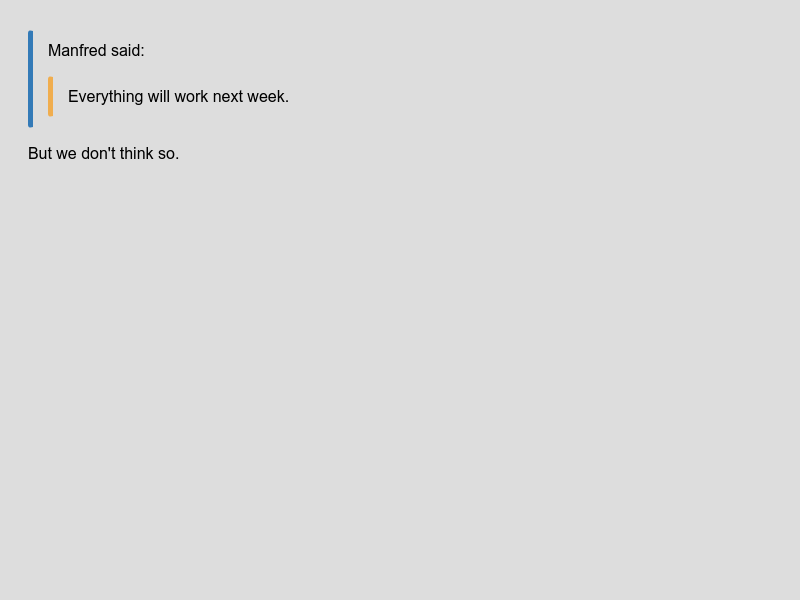
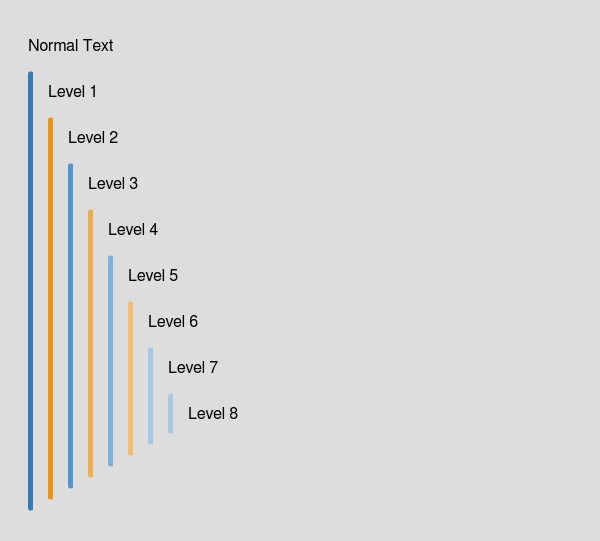
More examples blockquote.

Changed region(s): [[0.03, 0.0591, 0.36, 0.9464], [0.33, 0.7394, 0.39, 0.7985], [0.15, 0.3253, 0.24, 0.3549]]

diff --git a/var/src/template/report/default.css b/var/src/template/report/default.css
@@ -1,1 +1,1 @@
-div#page{border:1px solid #aaa;-webkit-box-shadow:0 8px 16px 0 rgba(0,0,0,0.4),0 12px 40px 0 rgba(0,0,0,0.4);box-shadow:0 8px 16px 0 rgba(0,0,0,0.4),0 12px 40px 0 rgba(0,0,0,0.4);max-width:800px;display:inline-block;background:#fff;padding:17px;overflow:auto;}div#page > h1{margin-top:0}html{background:#ddd;padding:20px}body{font-family:"Helvetica Neue",Helvetica,"Segoe UI",Arial,freesans,sans-serif,"Apple Color Emoji","Segoe UI Emoji","Segoe UI Symbol";font-size:16px;line-height:1.2;-ms-word-break:break-all;word-break:break-all;word-break:break-word;-webkit-hyphens:auto;-moz-hyphens:auto;-ms-hyphens:auto;hyphens:auto;-webkit-hyphenate-before:2;-webkit-hyphenate-after:3;hyphenate-lines:3;word-wrap:break-word}h1,h2,h3,h4,h5,h6{font-weight:bold;}h1:before,h2:before,h3:before,h4:before,h5:before,h6:before{display:block;content:" ";margin-top:-66px;height:66px;visibility:hidden}h1,h2,h3{clear:both}h1{border-bottom:3px solid #222;padding-bottom:5px}h2{border-bottom:2px dotted #222;padding-bottom:3px}h3{border-bottom:2px dotted #aaa;padding-bottom:2px}h4{border-bottom:1px dotted #aaa}a{color:#00008b}dt{font-weight:bold;margin-top:8px}dd{margin-left:20px}svg{max-width:100%}img{max-width:100%;vertical-align:middle}.emoji{height:1em}abbr,acronym{border-bottom:dotted 1px}blockquote{border:1px solid #ddd;border-radius:3px;border-left:5px solid #337ab7;padding:5px 15px;margin:10px 0;}blockquote :first-child{margin-top:5px}blockquote :last-child{margin-bottom:5px}blockquote blockquote{margin-right:-16px;border-left-color:#f0ad4e;}blockquote blockquote blockquote{border-left-color:#337ab7;}blockquote blockquote blockquote blockquote{border-left-color:#f0ad4e}blockquote ul li p{margin-bottom:0}table{border-collapse:collapse;border-spacing:0;display:block;width:100%;overflow:auto;word-break:keep-all;margin-bottom:10px;}table th,table td{padding:6px 13px;border:1px solid #ddd}table th{background-color:rgba(0,0,0,0.04);font-weight:bold;border-bottom:3px solid #999}table tr{background-color:#fff;border-top:1px solid #ccc;}table tr:nth-child(2n){background-color:rgba(0,0,0,0.04)}a code{color:#337ab7}code,tt{background-color:#fafafa;border-radius:4px;font-size:85%;margin:0;padding:.2em 0}pre{background-color:#fafafa;border-radius:10px;border:1px solid #a4a4a4;font-size:85%;margin:20px;padding:10px;}pre code,pre tt{background:none}pre.language{counter-reset:line;padding-top:0;padding-bottom:0;overflow-x:hidden;}pre.language code,pre.language tt{display:block;position:relative;float:left;width:100%;border-left:45px solid #ddd;margin-left:-10px;padding-left:5px;}pre.language code:nth-child(2n),pre.language tt:nth-child(2n){border-left:45px solid #c7c7c7;background-color:#ededed}pre.language code:before,pre.language tt:before{counter-increment:line;content:counter(line);min-width:35px;float:left;text-align:right;padding-right:5px;color:#808080;-webkit-touch-callout:none;-webkit-user-select:none;-moz-user-select:none;-ms-user-select:none;user-select:none;-webkit-user-select:none;margin-left:-45px}pre.language code:first-of-type,pre.language tt:first-of-type{padding-top:10px}pre.language code:last-child,pre.language tt:last-child{padding-bottom:10px}pre.language header{display:none}ul.table-of-contents{border:2px solid #ddd;border-radius:10px;margin-top:0;padding:10px 10px 10px 25px;background:#fafafa;font-size:90%;float:right;}ul.table-of-contents header{font-weight:bold;font-size:120%;display:block;background:#ddd;margin:-10px -10px 4px -25px;border-top-left-radius:10px;border-top-right-radius:10px;padding:3px 10px}ul.table-of-contents ul{padding-left:15px}ul.table-of-contents a{text-decoration:none}.toplink{float:right;color:#222}.tabs{padding:0;margin-bottom:10px;}.tabs:after{content:'';display:table;clear:both}.tabs input.tab,.tabs input.tabs-size{display:none}.tabs input.tab + label{position:relative;z-index:1;display:block;float:left;cursor:pointer;padding:5px 10px;margin-bottom:-1px;border:1px solid #222;border-top-left-radius:10px;border-top-right-radius:10px;background:#ddd;-webkit-transition:all 0.5s;-moz-transition:all 0.5s;-o-transition:all 0.5s;-ms-transition:all 0.5s;transition:all 0.5s;opacity:.5;-ms-filter:"progid:DXImageTransform.Microsoft.Alpha(Opacity=50)";filter:alpha(opacity=50);font-weight:bold;font-size:80%}.tabs input.tab + label:hover,.tabs input.tab:hover + label{opacity:1;-ms-filter:none;filter:none}.tabs .tab-content{display:none;position:relative;clear:both;border:1px solid #222;border-top-right-radius:10px;border-bottom-left-radius:10px;border-bottom-right-radius:10px;padding:0 15px;-webkit-transition:all 0.5s;-moz-transition:all 0.5s;-o-transition:all 0.5s;-ms-transition:all 0.5s;transition:all 0.5s;overflow:auto;max-height:300px;}.tabs .tab-content > p{margin-top:10px}.tabs input.tab:checked + label{cursor:default;border-bottom:1px solid #fff;opacity:1;-ms-filter:none;filter:none}.tabs .tab1:checked ~ .tab-content1,.tabs .tab2:checked ~ .tab-content2,.tabs .tab3:checked ~ .tab-content3,.tabs .tab4:checked ~ .tab-content4,.tabs .tab5:checked ~ .tab-content5,.tabs .tab6:checked ~ .tab-content6,.tabs .tab7:checked ~ .tab-content7,.tabs .tab8:checked ~ .tab-content8{display:block}.tabs .tabs-size + label{cursor:pointer;float:right;padding:5px 5px 0 5px;font-size:80%}.tabs .tabs-size-min:checked + label,.tabs .tabs-size-scroll:checked + label,.tabs .tabs-size-max:checked + label{display:none}.tabs .tabs-size-min:checked ~ .tab-content{height:0}.tabs .tabs-size-max:checked ~ .tab-content{max-height:none}@media print{input.tab + label{opacity:1 !important;-ms-filter:none !important;filter:none !important}.tabs-size-min + label,.tabs-size-scroll + label,.tabs-size-max + label{display:none}.tab-content{display:block !important;max-height:none !important;height:auto !important}}.tabs input.tab + label.detail{background-image:-webkit-linear-gradient(top, #fafafa 0%, #999 100%);background-image:-moz-linear-gradient(top, #fafafa 0%, #999 100%);background-image:-o-linear-gradient(top, #fafafa 0%, #999 100%);background-image:-ms-linear-gradient(top, #fafafa 0%, #999 100%);background-image:linear-gradient(to bottom, #fafafa 0%, #999 100%);border-bottom-color:#999}.tabs div.detail{background-image:-webkit-linear-gradient(top, #fafafa 0%, #999 100%);background-image:-moz-linear-gradient(top, #fafafa 0%, #999 100%);background-image:-o-linear-gradient(top, #fafafa 0%, #999 100%);background-image:-ms-linear-gradient(top, #fafafa 0%, #999 100%);background-image:linear-gradient(to bottom, #fafafa 0%, #999 100%)}.tabs input.tab + label.info{background-image:-webkit-linear-gradient(top, #cfc 0%, #9f9 100%);background-image:-moz-linear-gradient(top, #cfc 0%, #9f9 100%);background-image:-o-linear-gradient(top, #cfc 0%, #9f9 100%);background-image:-ms-linear-gradient(top, #cfc 0%, #9f9 100%);background-image:linear-gradient(to bottom, #cfc 0%, #9f9 100%);border-bottom-color:#9f9}.tabs div.info{background-image:-webkit-linear-gradient(top, #cfc 0%, #9f9 100%);background-image:-moz-linear-gradient(top, #cfc 0%, #9f9 100%);background-image:-o-linear-gradient(top, #cfc 0%, #9f9 100%);background-image:-ms-linear-gradient(top, #cfc 0%, #9f9 100%);background-image:linear-gradient(to bottom, #cfc 0%, #9f9 100%)}.tabs input.tab + label.warning{background-image:-webkit-linear-gradient(top, #fde6a5 0%, #fbcd4a 100%);background-image:-moz-linear-gradient(top, #fde6a5 0%, #fbcd4a 100%);background-image:-o-linear-gradient(top, #fde6a5 0%, #fbcd4a 100%);background-image:-ms-linear-gradient(top, #fde6a5 0%, #fbcd4a 100%);background-image:linear-gradient(to bottom, #fde6a5 0%, #fbcd4a 100%);border-bottom-color:#fbcd4a}.tabs div.warning{background-image:-webkit-linear-gradient(top, #fde6a5 0%, #fbcd4a 100%);background-image:-moz-linear-gradient(top, #fde6a5 0%, #fbcd4a 100%);background-image:-o-linear-gradient(top, #fde6a5 0%, #fbcd4a 100%);background-image:-ms-linear-gradient(top, #fde6a5 0%, #fbcd4a 100%);background-image:linear-gradient(to bottom, #fde6a5 0%, #fbcd4a 100%)}.tabs input.tab + label.alert{background-image:-webkit-linear-gradient(top, #f7c4b3 0%, #e86 100%);background-image:-moz-linear-gradient(top, #f7c4b3 0%, #e86 100%);background-image:-o-linear-gradient(top, #f7c4b3 0%, #e86 100%);background-image:-ms-linear-gradient(top, #f7c4b3 0%, #e86 100%);background-image:linear-gradient(to bottom, #f7c4b3 0%, #e86 100%);border-bottom-color:#e86}.tabs div.alert{background-image:-webkit-linear-gradient(top, #f7c4b3 0%, #e86 100%);background-image:-moz-linear-gradient(top, #f7c4b3 0%, #e86 100%);background-image:-o-linear-gradient(top, #f7c4b3 0%, #e86 100%);background-image:-ms-linear-gradient(top, #f7c4b3 0%, #e86 100%);background-image:linear-gradient(to bottom, #f7c4b3 0%, #e86 100%)}.tabs .tab-content.pre{padding:0;}.tabs .tab-content.pre pre,.tabs .tab-content.pre table{margin:0;border:0;border-radius:0}.tabs input.tab + label.coffeescript,.tabs input.tab + label.javascript,.tabs input.tab + label.ruby,.tabs input.tab + label.python,.tabs input.tab + label.perl,.tabs input.tab + label.cc,.tabs input.tab + label.cpp,.tabs input.tab + label.cs,.tabs input.tab + label.java,.tabs input.tab + label.groovy,.tabs input.tab + label.php,.tabs input.tab + label.bash,.tabs input.tab + label.sql,.tabs input.tab + label.makefile{background-image:-webkit-linear-gradient(top, #f8d6a7 0%, #f0ad4e 100%);background-image:-moz-linear-gradient(top, #f8d6a7 0%, #f0ad4e 100%);background-image:-o-linear-gradient(top, #f8d6a7 0%, #f0ad4e 100%);background-image:-ms-linear-gradient(top, #f8d6a7 0%, #f0ad4e 100%);background-image:linear-gradient(to bottom, #f8d6a7 0%, #f0ad4e 100%);border-bottom-color:#f0ad4e}.tabs input.tab + label.json,.tabs input.tab + label.cson,.tabs input.tab + label.yaml{background-image:-webkit-linear-gradient(top, #93bde1 0%, #337ab7 100%);background-image:-moz-linear-gradient(top, #93bde1 0%, #337ab7 100%);background-image:-o-linear-gradient(top, #93bde1 0%, #337ab7 100%);background-image:-ms-linear-gradient(top, #93bde1 0%, #337ab7 100%);background-image:linear-gradient(to bottom, #93bde1 0%, #337ab7 100%);border-bottom-color:#337ab7}.tabs input.tab + label.jsp,.tabs input.tab + label.handlebars,.tabs input.tab + label.css,.tabs input.tab + label.stylus,.tabs input.tab + label.scss,.tabs input.tab + label.less{background-image:-webkit-linear-gradient(top, #75e5e2 0%, #1d9a96 100%);background-image:-moz-linear-gradient(top, #75e5e2 0%, #1d9a96 100%);background-image:-o-linear-gradient(top, #75e5e2 0%, #1d9a96 100%);background-image:-ms-linear-gradient(top, #75e5e2 0%, #1d9a96 100%);background-image:linear-gradient(to bottom, #75e5e2 0%, #1d9a96 100%);border-bottom-color:#1d9a96}.tabs input.tab + label.markdown,.tabs input.tab + label.html{background-image:-webkit-linear-gradient(top, #9bd09b 0%, #459245 100%);background-image:-moz-linear-gradient(top, #9bd09b 0%, #459245 100%);background-image:-o-linear-gradient(top, #9bd09b 0%, #459245 100%);background-image:-ms-linear-gradient(top, #9bd09b 0%, #459245 100%);background-image:linear-gradient(to bottom, #9bd09b 0%, #459245 100%);border-bottom-color:#459245}.text-red{color:#d13f19}.text-green{color:#2ecc40}.text-yellow{color:#ffdc00}.text-blue{color:#0074d9}.text-magenta{color:#f0f}.text-cyan{color:#0ff}.text-gray{color:#aaa}.bg-white{background-color:#fff}.center{text-align:center}.left{float:left}.right{float:right}.spacing{padding:10px}.hidden{display:none}
+div#page{border:1px solid #aaa;-webkit-box-shadow:0 8px 16px 0 rgba(0,0,0,0.4),0 12px 40px 0 rgba(0,0,0,0.4);box-shadow:0 8px 16px 0 rgba(0,0,0,0.4),0 12px 40px 0 rgba(0,0,0,0.4);max-width:800px;display:inline-block;background:#fff;padding:17px;overflow:auto;}div#page > h1{margin-top:0}html{background:#ddd;padding:20px}body{font-family:"Helvetica Neue",Helvetica,"Segoe UI",Arial,freesans,sans-serif,"Apple Color Emoji","Segoe UI Emoji","Segoe UI Symbol";font-size:16px;line-height:1.2;-ms-word-break:break-all;word-break:break-all;word-break:break-word;-webkit-hyphens:auto;-moz-hyphens:auto;-ms-hyphens:auto;hyphens:auto;-webkit-hyphenate-before:2;-webkit-hyphenate-after:3;hyphenate-lines:3;word-wrap:break-word}h1,h2,h3,h4,h5,h6{font-weight:bold;}h1:before,h2:before,h3:before,h4:before,h5:before,h6:before{display:block;content:" ";margin-top:-66px;height:66px;visibility:hidden}h1,h2,h3{clear:both}h1{border-bottom:3px solid #222;padding-bottom:5px}h2{border-bottom:2px dotted #222;padding-bottom:3px}h3{border-bottom:2px dotted #aaa;padding-bottom:2px}h4{border-bottom:1px dotted #aaa}a{color:#00008b}dt{font-weight:bold;margin-top:8px}dd{margin-left:20px}svg{max-width:100%}img{max-width:100%;vertical-align:middle}.emoji{height:1em}abbr,acronym{border-bottom:dotted 1px}blockquote{border:1px solid #ddd;border-radius:3px;border-left:5px solid #337ab7;padding:5px 15px;margin:10px 0;}blockquote :first-child{margin-top:5px}blockquote :last-child{margin-bottom:5px}blockquote blockquote{margin-right:-16px;border-left-color:#eb9214;}blockquote blockquote blockquote{border-left-color:#5295cf;}blockquote blockquote blockquote blockquote{border-left-color:#f0ad4e;}blockquote blockquote blockquote blockquote blockquote{border-left-color:#7db0db;}blockquote blockquote blockquote blockquote blockquote blockquote{border-left-color:#f3bd71;}blockquote blockquote blockquote blockquote blockquote blockquote blockquote{border-left-color:#a9cae7}blockquote ul li p{margin-bottom:0}table{border-collapse:collapse;border-spacing:0;display:block;width:100%;overflow:auto;word-break:keep-all;margin-bottom:10px;}table th,table td{padding:6px 13px;border:1px solid #ddd}table th{background-color:rgba(0,0,0,0.04);font-weight:bold;border-bottom:3px solid #999}table tr{background-color:#fff;border-top:1px solid #ccc;}table tr:nth-child(2n){background-color:rgba(0,0,0,0.04)}a code{color:#337ab7}code,tt{background-color:#fafafa;border-radius:4px;font-size:85%;margin:0;padding:.2em 0}pre{background-color:#fafafa;border-radius:10px;border:1px solid #a4a4a4;font-size:85%;margin:20px;padding:10px;}pre code,pre tt{background:none}pre.language{counter-reset:line;padding-top:0;padding-bottom:0;overflow-x:hidden;}pre.language code,pre.language tt{display:block;position:relative;float:left;width:100%;border-left:45px solid #ddd;margin-left:-10px;padding-left:5px;}pre.language code:nth-child(2n),pre.language tt:nth-child(2n){border-left:45px solid #c7c7c7;background-color:#ededed}pre.language code:before,pre.language tt:before{counter-increment:line;content:counter(line);min-width:35px;float:left;text-align:right;padding-right:5px;color:#808080;-webkit-touch-callout:none;-webkit-user-select:none;-moz-user-select:none;-ms-user-select:none;user-select:none;-webkit-user-select:none;margin-left:-45px}pre.language code:first-of-type,pre.language tt:first-of-type{padding-top:10px}pre.language code:last-child,pre.language tt:last-child{padding-bottom:10px}pre.language header{display:none}ul.table-of-contents{border:2px solid #ddd;border-radius:10px;margin-top:0;padding:10px 10px 10px 25px;background:#fafafa;font-size:90%;float:right;}ul.table-of-contents header{font-weight:bold;font-size:120%;display:block;background:#ddd;margin:-10px -10px 4px -25px;border-top-left-radius:10px;border-top-right-radius:10px;padding:3px 10px}ul.table-of-contents ul{padding-left:15px}ul.table-of-contents a{text-decoration:none}.toplink{float:right;color:#222}.tabs{padding:0;margin-bottom:10px;}.tabs:after{content:'';display:table;clear:both}.tabs input.tab,.tabs input.tabs-size{display:none}.tabs input.tab + label{position:relative;z-index:1;display:block;float:left;cursor:pointer;padding:5px 10px;margin-bottom:-1px;border:1px solid #222;border-top-left-radius:10px;border-top-right-radius:10px;background:#ddd;-webkit-transition:all 0.5s;-moz-transition:all 0.5s;-o-transition:all 0.5s;-ms-transition:all 0.5s;transition:all 0.5s;opacity:.5;-ms-filter:"progid:DXImageTransform.Microsoft.Alpha(Opacity=50)";filter:alpha(opacity=50);font-weight:bold;font-size:80%}.tabs input.tab + label:hover,.tabs input.tab:hover + label{opacity:1;-ms-filter:none;filter:none}.tabs .tab-content{display:none;position:relative;clear:both;border:1px solid #222;border-top-right-radius:10px;border-bottom-left-radius:10px;border-bottom-right-radius:10px;padding:0 15px;-webkit-transition:all 0.5s;-moz-transition:all 0.5s;-o-transition:all 0.5s;-ms-transition:all 0.5s;transition:all 0.5s;overflow:auto;max-height:300px;}.tabs .tab-content > p{margin-top:10px}.tabs input.tab:checked + label{cursor:default;border-bottom:1px solid #fff;opacity:1;-ms-filter:none;filter:none}.tabs .tab1:checked ~ .tab-content1,.tabs .tab2:checked ~ .tab-content2,.tabs .tab3:checked ~ .tab-content3,.tabs .tab4:checked ~ .tab-content4,.tabs .tab5:checked ~ .tab-content5,.tabs .tab6:checked ~ .tab-content6,.tabs .tab7:checked ~ .tab-content7,.tabs .tab8:checked ~ .tab-content8{display:block}.tabs .tabs-size + label{cursor:pointer;float:right;padding:5px 5px 0 5px;font-size:80%}.tabs .tabs-size-min:checked + label,.tabs .tabs-size-scroll:checked + label,.tabs .tabs-size-max:checked + label{display:none}.tabs .tabs-size-min:checked ~ .tab-content{height:0}.tabs .tabs-size-max:checked ~ .tab-content{max-height:none}@media print{input.tab + label{opacity:1 !important;-ms-filter:none !important;filter:none !important}.tabs-size-min + label,.tabs-size-scroll + label,.tabs-size-max + label{display:none}.tab-content{display:block !important;max-height:none !important;height:auto !important}}.tabs input.tab + label.detail{background-image:-webkit-linear-gradient(top, #fafafa 0%, #999 100%);background-image:-moz-linear-gradient(top, #fafafa 0%, #999 100%);background-image:-o-linear-gradient(top, #fafafa 0%, #999 100%);background-image:-ms-linear-gradient(top, #fafafa 0%, #999 100%);background-image:linear-gradient(to bottom, #fafafa 0%, #999 100%);border-bottom-color:#999}.tabs div.detail{background-image:-webkit-linear-gradient(top, #fafafa 0%, #999 100%);background-image:-moz-linear-gradient(top, #fafafa 0%, #999 100%);background-image:-o-linear-gradient(top, #fafafa 0%, #999 100%);background-image:-ms-linear-gradient(top, #fafafa 0%, #999 100%);background-image:linear-gradient(to bottom, #fafafa 0%, #999 100%)}.tabs input.tab + label.info{background-image:-webkit-linear-gradient(top, #cfc 0%, #9f9 100%);background-image:-moz-linear-gradient(top, #cfc 0%, #9f9 100%);background-image:-o-linear-gradient(top, #cfc 0%, #9f9 100%);background-image:-ms-linear-gradient(top, #cfc 0%, #9f9 100%);background-image:linear-gradient(to bottom, #cfc 0%, #9f9 100%);border-bottom-color:#9f9}.tabs div.info{background-image:-webkit-linear-gradient(top, #cfc 0%, #9f9 100%);background-image:-moz-linear-gradient(top, #cfc 0%, #9f9 100%);background-image:-o-linear-gradient(top, #cfc 0%, #9f9 100%);background-image:-ms-linear-gradient(top, #cfc 0%, #9f9 100%);background-image:linear-gradient(to bottom, #cfc 0%, #9f9 100%)}.tabs input.tab + label.warning{background-image:-webkit-linear-gradient(top, #fde6a5 0%, #fbcd4a 100%);background-image:-moz-linear-gradient(top, #fde6a5 0%, #fbcd4a 100%);background-image:-o-linear-gradient(top, #fde6a5 0%, #fbcd4a 100%);background-image:-ms-linear-gradient(top, #fde6a5 0%, #fbcd4a 100%);background-image:linear-gradient(to bottom, #fde6a5 0%, #fbcd4a 100%);border-bottom-color:#fbcd4a}.tabs div.warning{background-image:-webkit-linear-gradient(top, #fde6a5 0%, #fbcd4a 100%);background-image:-moz-linear-gradient(top, #fde6a5 0%, #fbcd4a 100%);background-image:-o-linear-gradient(top, #fde6a5 0%, #fbcd4a 100%);background-image:-ms-linear-gradient(top, #fde6a5 0%, #fbcd4a 100%);background-image:linear-gradient(to bottom, #fde6a5 0%, #fbcd4a 100%)}.tabs input.tab + label.alert{background-image:-webkit-linear-gradient(top, #f7c4b3 0%, #e86 100%);background-image:-moz-linear-gradient(top, #f7c4b3 0%, #e86 100%);background-image:-o-linear-gradient(top, #f7c4b3 0%, #e86 100%);background-image:-ms-linear-gradient(top, #f7c4b3 0%, #e86 100%);background-image:linear-gradient(to bottom, #f7c4b3 0%, #e86 100%);border-bottom-color:#e86}.tabs div.alert{background-image:-webkit-linear-gradient(top, #f7c4b3 0%, #e86 100%);background-image:-moz-linear-gradient(top, #f7c4b3 0%, #e86 100%);background-image:-o-linear-gradient(top, #f7c4b3 0%, #e86 100%);background-image:-ms-linear-gradient(top, #f7c4b3 0%, #e86 100%);background-image:linear-gradient(to bottom, #f7c4b3 0%, #e86 100%)}.tabs .tab-content.pre{padding:0;}.tabs .tab-content.pre pre,.tabs .tab-content.pre table{margin:0;border:0;border-radius:0}.tabs input.tab + label.coffeescript,.tabs input.tab + label.javascript,.tabs input.tab + label.ruby,.tabs input.tab + label.python,.tabs input.tab + label.perl,.tabs input.tab + label.cc,.tabs input.tab + label.cpp,.tabs input.tab + label.cs,.tabs input.tab + label.java,.tabs input.tab + label.groovy,.tabs input.tab + label.php,.tabs input.tab + label.bash,.tabs input.tab + label.sql,.tabs input.tab + label.makefile{background-image:-webkit-linear-gradient(top, #f8d6a7 0%, #f0ad4e 100%);background-image:-moz-linear-gradient(top, #f8d6a7 0%, #f0ad4e 100%);background-image:-o-linear-gradient(top, #f8d6a7 0%, #f0ad4e 100%);background-image:-ms-linear-gradient(top, #f8d6a7 0%, #f0ad4e 100%);background-image:linear-gradient(to bottom, #f8d6a7 0%, #f0ad4e 100%);border-bottom-color:#f0ad4e}.tabs input.tab + label.json,.tabs input.tab + label.cson,.tabs input.tab + label.yaml{background-image:-webkit-linear-gradient(top, #93bde1 0%, #337ab7 100%);background-image:-moz-linear-gradient(top, #93bde1 0%, #337ab7 100%);background-image:-o-linear-gradient(top, #93bde1 0%, #337ab7 100%);background-image:-ms-linear-gradient(top, #93bde1 0%, #337ab7 100%);background-image:linear-gradient(to bottom, #93bde1 0%, #337ab7 100%);border-bottom-color:#337ab7}.tabs input.tab + label.jsp,.tabs input.tab + label.handlebars,.tabs input.tab + label.css,.tabs input.tab + label.stylus,.tabs input.tab + label.scss,.tabs input.tab + label.less{background-image:-webkit-linear-gradient(top, #75e5e2 0%, #1d9a96 100%);background-image:-moz-linear-gradient(top, #75e5e2 0%, #1d9a96 100%);background-image:-o-linear-gradient(top, #75e5e2 0%, #1d9a96 100%);background-image:-ms-linear-gradient(top, #75e5e2 0%, #1d9a96 100%);background-image:linear-gradient(to bottom, #75e5e2 0%, #1d9a96 100%);border-bottom-color:#1d9a96}.tabs input.tab + label.markdown,.tabs input.tab + label.html{background-image:-webkit-linear-gradient(top, #9bd09b 0%, #459245 100%);background-image:-moz-linear-gradient(top, #9bd09b 0%, #459245 100%);background-image:-o-linear-gradient(top, #9bd09b 0%, #459245 100%);background-image:-ms-linear-gradient(top, #9bd09b 0%, #459245 100%);background-image:linear-gradient(to bottom, #9bd09b 0%, #459245 100%);border-bottom-color:#459245}.text-red{color:#d13f19}.text-green{color:#2ecc40}.text-yellow{color:#ffdc00}.text-blue{color:#0074d9}.text-magenta{color:#f0f}.text-cyan{color:#0ff}.text-gray{color:#aaa}.bg-white{background-color:#fff}.center{text-align:center}.left{float:left}.right{float:right}.spacing{padding:10px}.hidden{display:none}

diff --git a/src/examples/blockquote/multiple.tokens.js b/src/examples/blockquote/multiple.tokens.js
@@ -1,11 +1,18 @@
 TokenList {
   data: 
    [ { type: 'document', nesting: 1, level: 0 },
+     { type: 'paragraph', nesting: 1, level: 1, parent: [Object] },
+     { type: 'text',
+       nesting: 0,
+       content: 'Normal Text',
+       level: 2,
+       parent: [Object] },
+     { type: 'paragraph', nesting: -1, level: 1, parent: [Object] },
      { type: 'blockquote', nesting: 1, level: 1, parent: [Object] },
      { type: 'paragraph', nesting: 1, level: 2, parent: [Object] },
      { type: 'text',
        nesting: 0,
-       content: 'Manfred said:',
+       content: 'Level 1',
        level: 3,
        parent: [Object] },
      { type: 'paragraph', nesting: -1, level: 2, parent: [Object] },
@@ -13,23 +20,70 @@ TokenList {
      { type: 'paragraph', nesting: 1, level: 3, parent: [Object] },
      { type: 'text',
        nesting: 0,
-       content: 'Everything will work next week.',
+       content: 'Level 2',
        level: 4,
        parent: [Object] },
      { type: 'paragraph', nesting: -1, level: 3, parent: [Object] },
-     { type: 'blockquote', nesting: -1, level: 2, parent: [Object] },
-     { type: 'blockquote', nesting: -1, level: 1, parent: [Object] },
-     { type: 'paragraph', nesting: 1, level: 1, parent: [Object] },
+     { type: 'blockquote', nesting: 1, level: 3, parent: [Object] },
+     { type: 'paragraph', nesting: 1, level: 4, parent: [Object] },
      { type: 'text',
        nesting: 0,
-       content: 'But we don\'t think so.',
-       level: 2,
+       content: 'Level 3',
+       level: 5,
        parent: [Object] },
-     { type: 'paragraph', nesting: -1, level: 1, parent: [Object] },
+     { type: 'paragraph', nesting: -1, level: 4, parent: [Object] },
+     { type: 'blockquote', nesting: 1, level: 4, parent: [Object] },
+     { type: 'paragraph', nesting: 1, level: 5, parent: [Object] },
+     { type: 'text',
+       nesting: 0,
+       content: 'Level 4',
+       level: 6,
+       parent: [Object] },
+     { type: 'paragraph', nesting: -1, level: 5, parent: [Object] },
+     { type: 'blockquote', nesting: 1, level: 5, parent: [Object] },
+     { type: 'paragraph', nesting: 1, level: 6, parent: [Object] },
+     { type: 'text',
+       nesting: 0,
+       content: 'Level 5',
+       level: 7,
+       parent: [Object] },
+     { type: 'paragraph', nesting: -1, level: 6, parent: [Object] },
+     { type: 'blockquote', nesting: 1, level: 6, parent: [Object] },
+     { type: 'paragraph', nesting: 1, level: 7, parent: [Object] },
+     { type: 'text',
+       nesting: 0,
+       content: 'Level 6',
+       level: 8,
+       parent: [Object] },
+     { type: 'paragraph', nesting: -1, level: 7, parent: [Object] },
+     { type: 'blockquote', nesting: 1, level: 7, parent: [Object] },
+     { type: 'paragraph', nesting: 1, level: 8, parent: [Object] },
+     { type: 'text',
+       nesting: 0,
+       content: 'Level 7',
+       level: 9,
+       parent: [Object] },
+     { type: 'paragraph', nesting: -1, level: 8, parent: [Object] },
+     { type: 'blockquote', nesting: 1, level: 8, parent: [Object] },
+     { type: 'paragraph', nesting: 1, level: 9, parent: [Object] },
+     { type: 'text',
+       nesting: 0,
+       content: 'Level 8',
+       level: 10,
+       parent: [Object] },
+     { type: 'paragraph', nesting: -1, level: 9, parent: [Object] },
+     { type: 'blockquote', nesting: -1, level: 8, parent: [Object] },
+     { type: 'blockquote', nesting: -1, level: 7, parent: [Object] },
+     { type: 'blockquote', nesting: -1, level: 6, parent: [Object] },
+     { type: 'blockquote', nesting: -1, level: 5, parent: [Object] },
+     { type: 'blockquote', nesting: -1, level: 4, parent: [Object] },
+     { type: 'blockquote', nesting: -1, level: 3, parent: [Object] },
+     { type: 'blockquote', nesting: -1, level: 2, parent: [Object] },
+     { type: 'blockquote', nesting: -1, level: 1, parent: [Object] },
      { type: 'document', nesting: -1, level: 0 } ],
-  pos: 14,
+  pos: 44,
   token: 
-   { type: 'paragraph',
+   { type: 'blockquote',
      nesting: -1,
      level: 1,
      parent: { type: 'document', nesting: 1, level: 0 } } }

diff --git a/src/examples/blockquote/simple.tokens.js b/src/examples/blockquote/simple.tokens.js
@@ -1,0 +1,35 @@
+TokenList {
+  data: 
+   [ { type: 'document', nesting: 1, level: 0 },
+     { type: 'blockquote', nesting: 1, level: 1, parent: [Object] },
+     { type: 'paragraph', nesting: 1, level: 2, parent: [Object] },
+     { type: 'text',
+       nesting: 0,
+       content: 'Manfred said:',
+       level: 3,
+       parent: [Object] },
+     { type: 'paragraph', nesting: -1, level: 2, parent: [Object] },
+     { type: 'blockquote', nesting: 1, level: 2, parent: [Object] },
+     { type: 'paragraph', nesting: 1, level: 3, parent: [Object] },
+     { type: 'text',
+       nesting: 0,
+       content: 'Everything will work next week.',
+       level: 4,
+       parent: [Object] },
+     { type: 'paragraph', nesting: -1, level: 3, parent: [Object] },
+     { type: 'blockquote', nesting: -1, level: 2, parent: [Object] },
+     { type: 'blockquote', nesting: -1, level: 1, parent: [Object] },
+     { type: 'paragraph', nesting: 1, level: 1, parent: [Object] },
+     { type: 'text',
+       nesting: 0,
+       content: 'But we don\'t think so.',
+       level: 2,
+       parent: [Object] },
+     { type: 'paragraph', nesting: -1, level: 1, parent: [Object] },
+     { type: 'document', nesting: -1, level: 0 } ],
+  pos: 14,
+  token: 
+   { type: 'paragraph',
+     nesting: -1,
+     level: 1,
+     parent: { type: 'document', nesting: 1, level: 0 } } }

diff --git a/src/examples/blockquote/simple.html b/src/examples/blockquote/simple.html
@@ -6,22 +6,10 @@
 </head>
 
 <body><div id="page">
-<p>Normal Text</p>
-<blockquote><p>Level 1</p>
-<blockquote><p>Level 2</p>
-<blockquote><p>Level 3</p>
-<blockquote><p>Level 4</p>
-<blockquote><p>Level 5</p>
-<blockquote><p>Level 6</p>
-<blockquote><p>Level 7</p>
-<blockquote><p>Level 8</p>
+<blockquote><p>Manfred said:</p>
+<blockquote><p>Everything will work next week.</p>
 </blockquote>
 </blockquote>
-</blockquote>
-</blockquote>
-</blockquote>
-</blockquote>
-</blockquote>
-</blockquote>
+<p>But we don&#39;t think so.</p>
 </div></body>
 </html>

diff --git a/src/examples/blockquote/multiple.md b/src/examples/blockquote/multiple.md
@@ -1,5 +1,17 @@
-> Manfred said:
-> 
-> > Everything will work next week.
+Normal Text
 
-But we don't think so.
+> Level 1
+> 
+> > Level 2
+> > 
+> > > Level 3
+> > > 
+> > > > Level 4
+> > > > 
+> > > > > Level 5
+> > > > > 
+> > > > > > Level 6
+> > > > > > 
+> > > > > > > Level 7
+> > > > > > > 
+> > > > > > > > Level 8

diff --git a/src/examples/blockquote/multiple.source.md b/src/examples/blockquote/multiple.source.md
@@ -1,5 +1,9 @@
-> Manfred said:
->
-> > Everything will work next week.
->
-But we don't think so.
+Normal Text
+> Level 1
+> > Level 2
+> > > Level 3
+> > > > Level 4
+> > > > > Level 5
+> > > > > > Level 6
+> > > > > > > Level 7
+> > > > > > > > Level 8

diff --git a/src/examples/blockquote/simple.md b/src/examples/blockquote/simple.md
@@ -1,0 +1,5 @@
+> Manfred said:
+> 
+> > Everything will work next week.
+
+But we don't think so.

diff --git a/src/examples/blockquote/simple.source.md b/src/examples/blockquote/simple.source.md
@@ -1,0 +1,5 @@
+> Manfred said:
+>
+> > Everything will work next week.
+>
+But we don't think so.
